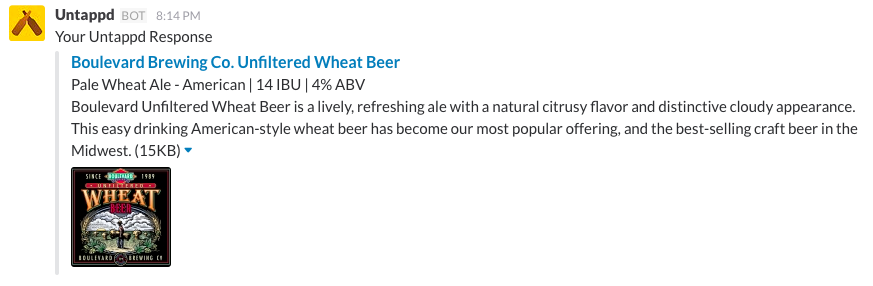
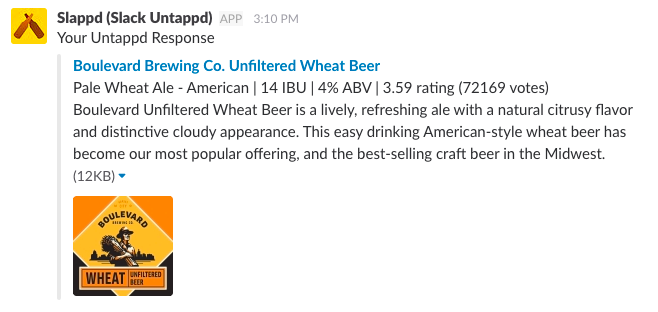
Simplify the README and update example images

Changed region(s): [[0.0608, 0.1958, 1.0, 0.951], [0.0, 0.0, 0.4559, 0.1678]]

diff --git a/README.md b/README.md
@@ -37,89 +37,12 @@ These values should be present in the default slack POST in addition to other no
 
 The server will do a lookup on the Untappd API for the given `text` in the Slack POST. If no result is found an `ephemeral` (only displayed to requesting user) message will be returned stating that no results were found. If results are found an `in_channel` (displayed to anyone in the channel) message will be returned.
 
-### Example
+### Interactions
 
-The following request:
-
-```
-[server_url]/?token=123Token456&user_name=kpurdon&text=Boulevard+Wheat
-```
-
-will generate the following JSON response:
-
-```
-{
-    "attachments": [
-        {
-            "actions": [
-                {
-                    "name": "beerSelector",
-                    "text": "Select This Beer",
-                    "type": "button",
-                    "value": "10501"
-                }
-            ],
-            "callback_id": "slappd",
-            "title": "<https://untappd.com/b/unfiltered-wheat-beer/10501|Boulevard Brewing Co. Unfiltered Wheat Beer>"
-        },
-        {
-            "actions": [
-                {
-                    "name": "beerSelector",
-                    "text": "Select This Beer",
-                    "type": "button",
-                    "value": "33035"
-                }
-            ],
-            "callback_id": "slappd",
-            "title": "<https://untappd.com/b/80-acre-hoppy-wheat-beer/33035|Boulevard Brewing Co. 80-Acre Hoppy Wheat Beer>"
-        },
-        {
-            "actions": [
-                {
-                    "name": "beerSelector",
-                    "text": "Select This Beer",
-                    "type": "button",
-                    "value": "12189"
-                }
-            ],
-            "callback_id": "slappd",
-            "title": "<https://untappd.com/b/harvest-dance-wheat-wine/12189|Boulevard Brewing Co. Harvest Dance Wheat Wine>"
-        },
-        {
-            "actions": [
-                {
-                    "name": "beerSelector",
-                    "text": "Select This Beer",
-                    "type": "button",
-                    "value": "864248"
-                }
-            ],
-            "callback_id": "slappd",
-            "title": "<https://untappd.com/b/harvest-dance-wheat-wine-2014/864248|Boulevard Brewing Co. Harvest Dance Wheat Wine (2014)>"
-        },
-        {
-            "actions": [
-                {
-                    "name": "beerSelector",
-                    "text": "Select This Beer",
-                    "type": "button",
-                    "value": "267421"
-                }
-            ],
-            "callback_id": "slappd",
-            "title": "<https://untappd.com/b/harvest-dance-wheat-wine-2012/267421|Boulevard Brewing Co. Harvest Dance Wheat Wine (2012)>"
-        }
-    ],
-    "response_type": "in_channel",
-    "text": "Your Untappd Response"
-}
-```
-
-which if configured correctly in slack will produce the following post:
+A user will type `/untappd Boulevard Wheat` which will produce:
 
 ![Slappd Search Response](examples/search_response.png)
 
-then after the user selects the desired result the message will be replaced with the following post:
+a user then has the option to select the desired beer which will produce:
 
 ![Slappd Select Response](examples/select_response.png)
